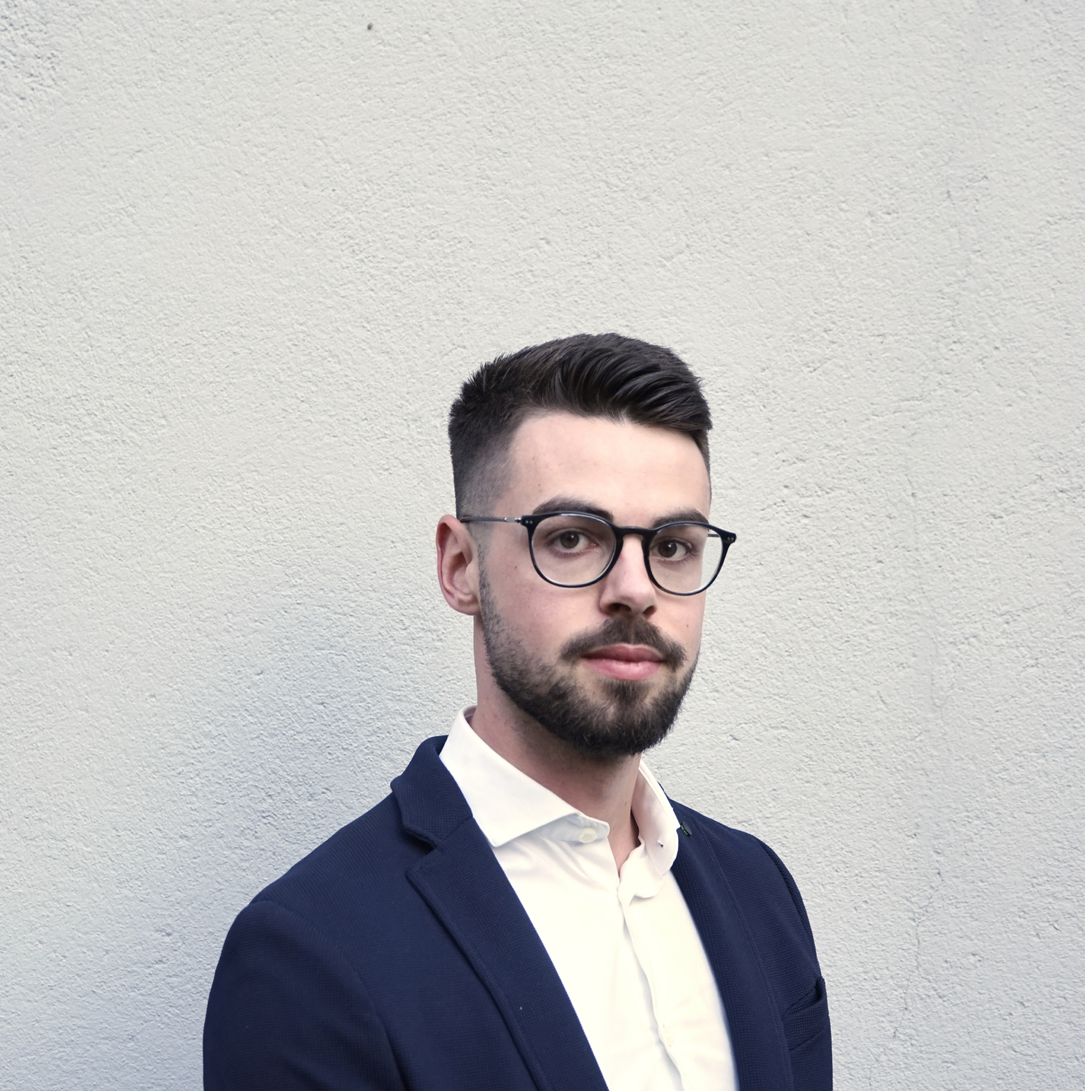
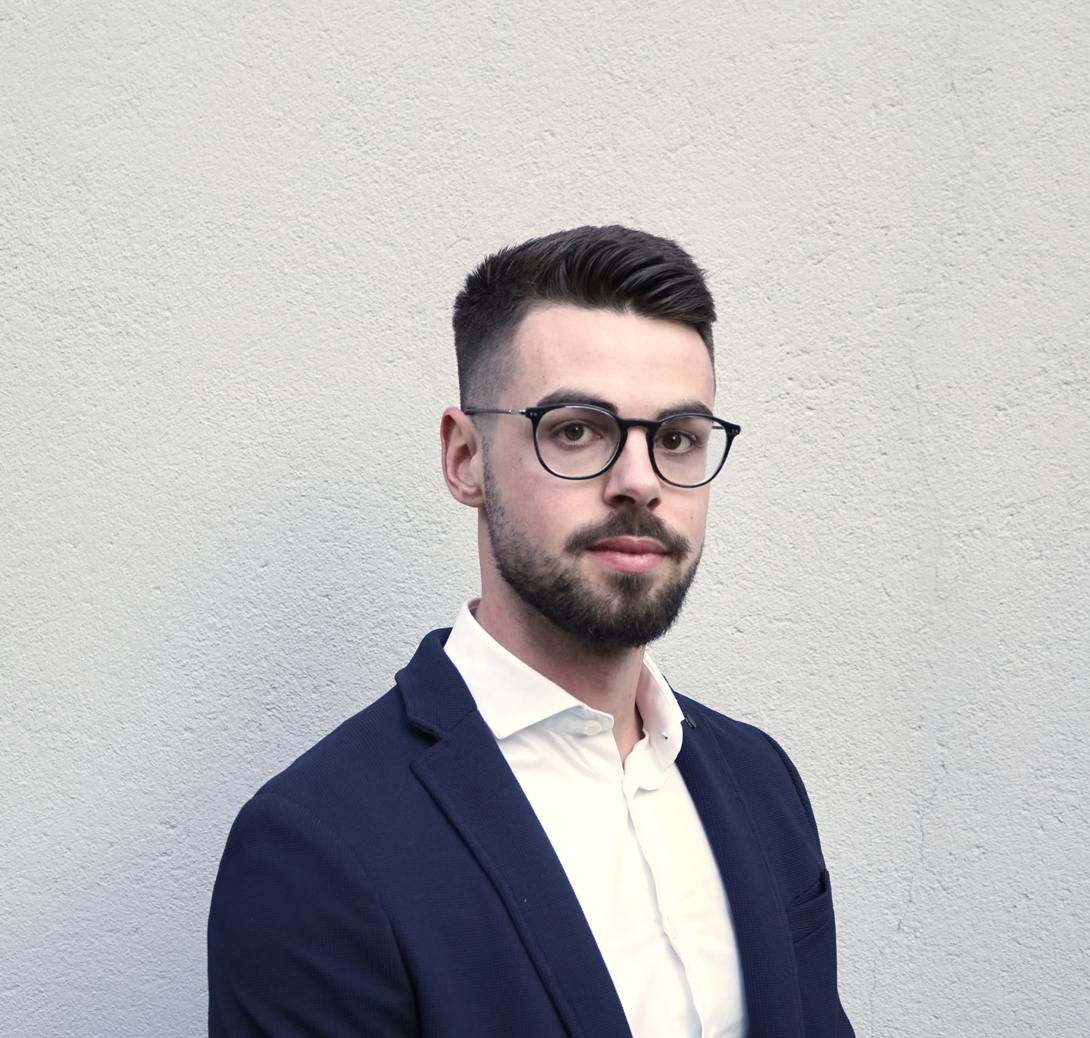
add link and images

diff --git a/src/vgg_model.html b/src/vgg_model.html
@@ -11,6 +11,8 @@
     <link href="https://fonts.googleapis.com/css?family=Open+Sans" rel="stylesheet">
     <link rel="stylesheet" href="mainJ.css">
 
+    <link rel="stylesheet" href="https://cdnjs.cloudflare.com/ajax/libs/font-awesome/4.7.0/css/font-awesome.min.css">
+
     <style>
       .layer-description {
         background-color: silver ;
@@ -71,7 +73,7 @@
           <div class="exploreTitel"></div>
           <?xml version="1.0" encoding="UTF-8" standalone="no"?>
             <!-- Created with Inkscape (http://www.inkscape.org/) -->
-            
+
             <svg
                class="bezier"
                xmlns:osb="http://www.openswatchbook.org/uri/2009/osb"
@@ -226,7 +228,7 @@
                    style="fill:url(#linearGradient5475);fill-opacity:1;stroke:rgba(238, 76, 44, 0.6);stroke-width:0.30994329"
                    id="rect174-6"
                    data-layer-id="0"
-                   
+
                    width="23.365831"
                    height="6.7543383"
                    x="0.21420792"
@@ -243,12 +245,12 @@
                    onmouseover="onHover(this)"
                   onmouseout="outHover(this)"
                   onclick = "onSvgClick(this)"
-                  
+
                    transform="scale(1.1386692,0.87821819)"><tspan
                      sodipodi:role="line"
                      id="tspan246"
                      data-layer-id="0"
-                     
+
                      x="1.8070722"
                      y="-161.33981"
                      style="font-size:3.42636466px;stroke-width:0.21414779">Conv2d_0</tspan></text>
@@ -273,7 +275,7 @@
                    onmouseout="outHover(this)"
                    onclick = "onSvgClick(this)"
 
-                   
+
                    transform="scale(1.1386692,0.87821819)"><tspan
                      sodipodi:role="line"
                      id="tspan246-2"
@@ -989,19 +991,19 @@
                    sodipodi:nodetypes="cccc" />
               </g>
             </svg>
-            
+
 
           </div>   <!-- end firstColumn-->
 
 
           <div class=" secondColumn column">
-             
+
          <img class="gifLogo" src="../images/blink_lurk.gif" width="390" height="500">
           <!-- second colomn with the swiper -->
           <!---------------------------------->
               <!-- addition du main_wrapper == filtersPage :)-->
               <div class="julien main_wrapper">
-               
+
                   <h1 class="julien titel-filter "></h1>
 
                   <div class="julien grid-wrapper">
@@ -1036,7 +1038,7 @@
 
                                   <h3 class="julien displayTitel relativeButton"> Top Images </h3>
                                  <div class="alignButtons">
-                                    
+
                                     <span class ="spanButtonChangeToAvg gauche"> Images </span><span class ="spanButtonChangeToGrad droite">Gradients</span>
 
                                  </div>
@@ -1079,13 +1081,13 @@
                                     <div class="julien max_imgs-firstRow images rowImages"></div>
                                     <div class="julien max_imgs-secondRow images rowImages"></div>
                                  </div>
-                                  <!--    no more useful --> 
+                                  <!--    no more useful -->
                                   <!--
                                  <h3 class="julien displayTitel"> max_imgs_grad </h3>
                                  <p class="julien max_imgs_grad-description description"></p>
                                  <div class="blockImages">
                                    <div class="julien max_imgs_grad-firstRow images"></div>
-                                   <div class="julien max_imgs_grad-secondRow images"></div> 
+                                   <div class="julien max_imgs_grad-secondRow images"></div>
                                 </div> -->
                                   <!--    no more useful -->
                                   <h3 class="julien displayTitel relativeButton">Cropped</h3>
@@ -1093,16 +1095,16 @@
                                  <div class="alignButtons">
                                     <span class ="spanButtonChangeToCrop gauche">Images</span><span class ="spanButtonChangeToCropGrad droite">Gradients</span>
                                  </div>
-                                 
+
                                   <p class="julien max_imgs_crop-description description"></p>
                                   <div class="blockImages">
                                     <div class="julien max_imgs_crop-firstRow images cropImages rowImages"></div>
                                     <div class="julien max_imgs_crop-secondRow images cropImages rowImages"></div>
 
                                  </div>
-                                  
 
-                                 
+
+
                                  <!--    no more useful --> <!--
                                   <h3 class="julien displayTitel"> max_imgs_crop_grad </h3>
                                   <p class="julien max_imgs_crop_grad-description description"></p>

diff --git a/index.html b/index.html
@@ -59,7 +59,7 @@
           <form action="https://github.com/ymentha14">
             <button class="button-header" onclick="#">Download</button>
           </form>
-          <form action="#">
+          <form action="doc/index.html">
             <button class="button-header" onclick="#">Documentation</button>
           </form>
         </div>

diff --git a/src/team.html b/src/team.html
@@ -46,7 +46,7 @@
       <div class="container">
 
             <div class="image rounded left">
-              <img src="../images/random.jpg" alt="Pic 01" />
+              <img src="../images/ym.jpeg" alt="Pic 01" />
             </div>
 
             <br /><br />
